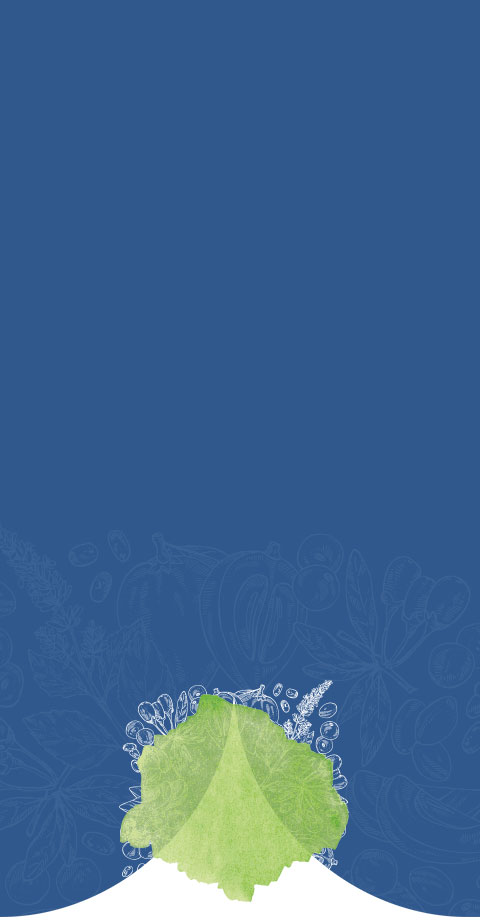
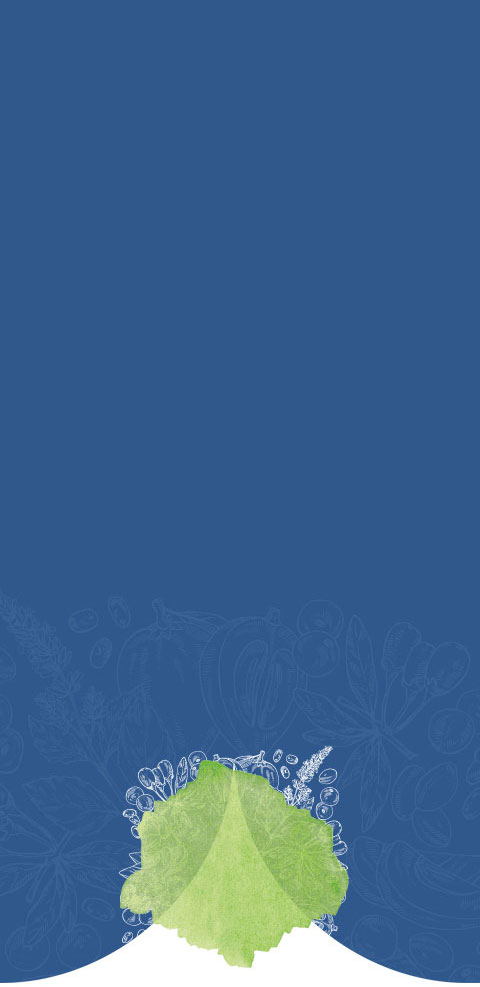
правки

diff --git a/src/sass/block/screen5.scss b/src/sass/block/screen5.scss
@@ -236,10 +236,10 @@
 
 @media (max-width: 480px) {
     .screen5__title {
-        font-size: 23px;
+        font-size: 25px;
 
         mark {
-            font-size: 24px;
+            font-size: 44px;
         }
     }
 
@@ -251,11 +251,39 @@
     }
 
     .screen5__item {
+        width: 100%;
+        justify-content: center !important;
+        margin-bottom: 20px;
+
         &:nth-child(2n) {
             .screen5__info {
                 left: auto;
                 right: 0;
             }
         }
+    }
+
+    .screen5__product::after {
+        bottom: 0;
+    }
+    
+    .screen5__ingredients {
+        width: 100%;
+        max-width: 230px;
+        margin-left: 0 !important;
+        margin-right: 0 !important;
+        text-align: left !important;
+        flex-direction: row !important;
+
+        p {
+            margin-top: 0;
+            margin-left: 15px !important;
+        }
+    }
+
+    .screen5__footer {
+        margin-top: 30px;
+        padding-left: 15px;
+        padding-right: 15px;
     }
 }

diff --git a/src/sass/block/screen6.scss b/src/sass/block/screen6.scss
@@ -99,10 +99,11 @@
 
 @media (max-width: 480px) {
     .screen6__title {
-        padding-top: 320px;
+        padding-top: 240px;
         background-image: url("../media/screen6/human-480.png");
         background-repeat: no-repeat;
         background-position: center top;
+        font-size: 25px;
 
         span {
             display: inline-block;
@@ -111,6 +112,10 @@
         br {
             display: block;
         }
+
+        mark {
+            font-size: 30px;
+        }
     }
     
     .screen6__body {
@@ -118,10 +123,11 @@
         padding-left: 15px;
 
         p {
-            font-size: 20px;
+            font-size: 17px;
+            color: #102b4f;
 
             &:last-child {
-                font-size: 17px;
+                font-size: 16px;
             }
         }
     }

diff --git a/src/sass/block/screen8.scss b/src/sass/block/screen8.scss
@@ -38,6 +38,12 @@
     }
 
     &:nth-child(3) {
+        .screen8__media {
+            &::before {
+                content: '03';
+            }
+        }
+
         &::after {
             display: none;
         }
@@ -105,5 +111,31 @@
 @media (max-width: 768px) {
     .screen8__title {
         font-size: 35px;
+    }
+}
+
+@media (max-width: 480px) {
+    .screen8__title {
+        font-size: 24px;
+    }
+
+    .screen8__item {
+        padding-bottom: 60px;
+
+        &::after {
+            top: auto;
+            bottom: 0;
+            display: block;
+            left: 50%;
+            transform: translateX(-50%) rotate(90deg);
+        }
+
+        &:last-child {
+            padding-bottom: 0;
+        }
+    }
+
+    .screen8__media {
+        margin-bottom: 30px;
     }
 }

diff --git a/src/sass/block/screen3.scss b/src/sass/block/screen3.scss
@@ -167,10 +167,14 @@
 
 @media (max-width: 480px) {
     .screen3__title {
-        font-size: 15px;
+        margin-left: -15px;
+        margin-right: -15px;
+        padding-right: 9px;
+        padding-left: 10px;
+        font-size: 16px;
         line-height: 1.2;
-        background-size: 280px;
-        padding-bottom: 185px;
+        background-size: auto;
+        padding-bottom: 370px;
 
         mark {
             font-size: 24px;
@@ -181,5 +185,14 @@
         margin-top: 30px;
         padding: 110px 25px 25px 25px;
         background-position: center -10px;
+        text-align: center;
+
+        mark {
+            display: block;
+        }
+    }
+
+    .screen3__body {
+        margin-top: -115px;
     }
 }

diff --git a/src/sass/block/commits.scss b/src/sass/block/commits.scss
@@ -82,7 +82,7 @@
 }
 
 .commits__box .owl-dot.active {
-    background-color: #000 !important;
+    background-color: #30588d !important;
     border: 0 !important;
 }
 
@@ -165,12 +165,12 @@
     }
 
     .commits__box .owl-dot {
-        width: 40px !important;
-        height: 5px !important;
+        width: 18px !important;
+        height: 18px !important;
         margin-right: 10px !important;
         margin-left: 10px !important;
         border: none !important;
-        border-radius: 7px !important;
+        border-radius: 50% !important;
         background-color: #f2f2f2 !important;
     }
 

diff --git a/src/sass/block/face.scss b/src/sass/block/face.scss
@@ -189,11 +189,30 @@
     .face__product {
         width: 225px;
         bottom: calc(100% + 70px);
+
+        &::after {
+            bottom: 0;
+        }
     }
 
     .face__box {
         &:last-child {
             margin-top: 370px;
+        }
+    }
+
+    .face__item {
+        position: relative;
+        padding-top: 180px;
+
+        img {
+            position: absolute;
+            top: 0;
+            left: 50%;
+            transform: translateX(-50%);
+            width: 200px;
+            height: 200px;
+            max-width: none;
         }
     }
 }

diff --git a/src/js/index.js b/src/js/index.js
@@ -60,7 +60,7 @@ $(document).ready(function () {
         offset: 200
     });
 
-    $('.screen5__ingredients').click(function() {
+    $('.screen5__ingredients').hover(function() {
         $('.screen5__info').not($(this).next('.screen5__info').fadeIn()).fadeOut();
     })
 

diff --git a/src/sass/block/screen4.scss b/src/sass/block/screen4.scss
@@ -13,7 +13,6 @@
 
         small {
             font-size: 18px;
-            font-weight: 200;
         }
     }
 }
@@ -89,7 +88,7 @@
         line-height: 1.2;
 
         mark {
-            font-size: 38px;
+            font-size: 42px;
         }
     }
 }

diff --git a/src/sass/core/section.scss b/src/sass/core/section.scss
@@ -96,7 +96,7 @@
         }
 
         &_screen5 {
-            background-position: center 150px;
+            background-position: center 210px;
             background-image: url("../media/section/screen5-768.jpg");
         }
 

diff --git a/src/sass/block/alarm.scss b/src/sass/block/alarm.scss
@@ -69,6 +69,10 @@
 
 @media screen and (max-width: 576px) {
     .alarm {
-        padding: 30px 10px 30px 40px;
+        padding: 30px 0px 30px 15px;
+    }
+
+    .alarm-title {
+        font-size: 21px;
     }
 }

diff --git a/src/sass/block/screen2.scss b/src/sass/block/screen2.scss
@@ -71,7 +71,7 @@
         }
 
         mark {
-            font-size: 20px;
+            font-size: 21px;
         }
     }
 
